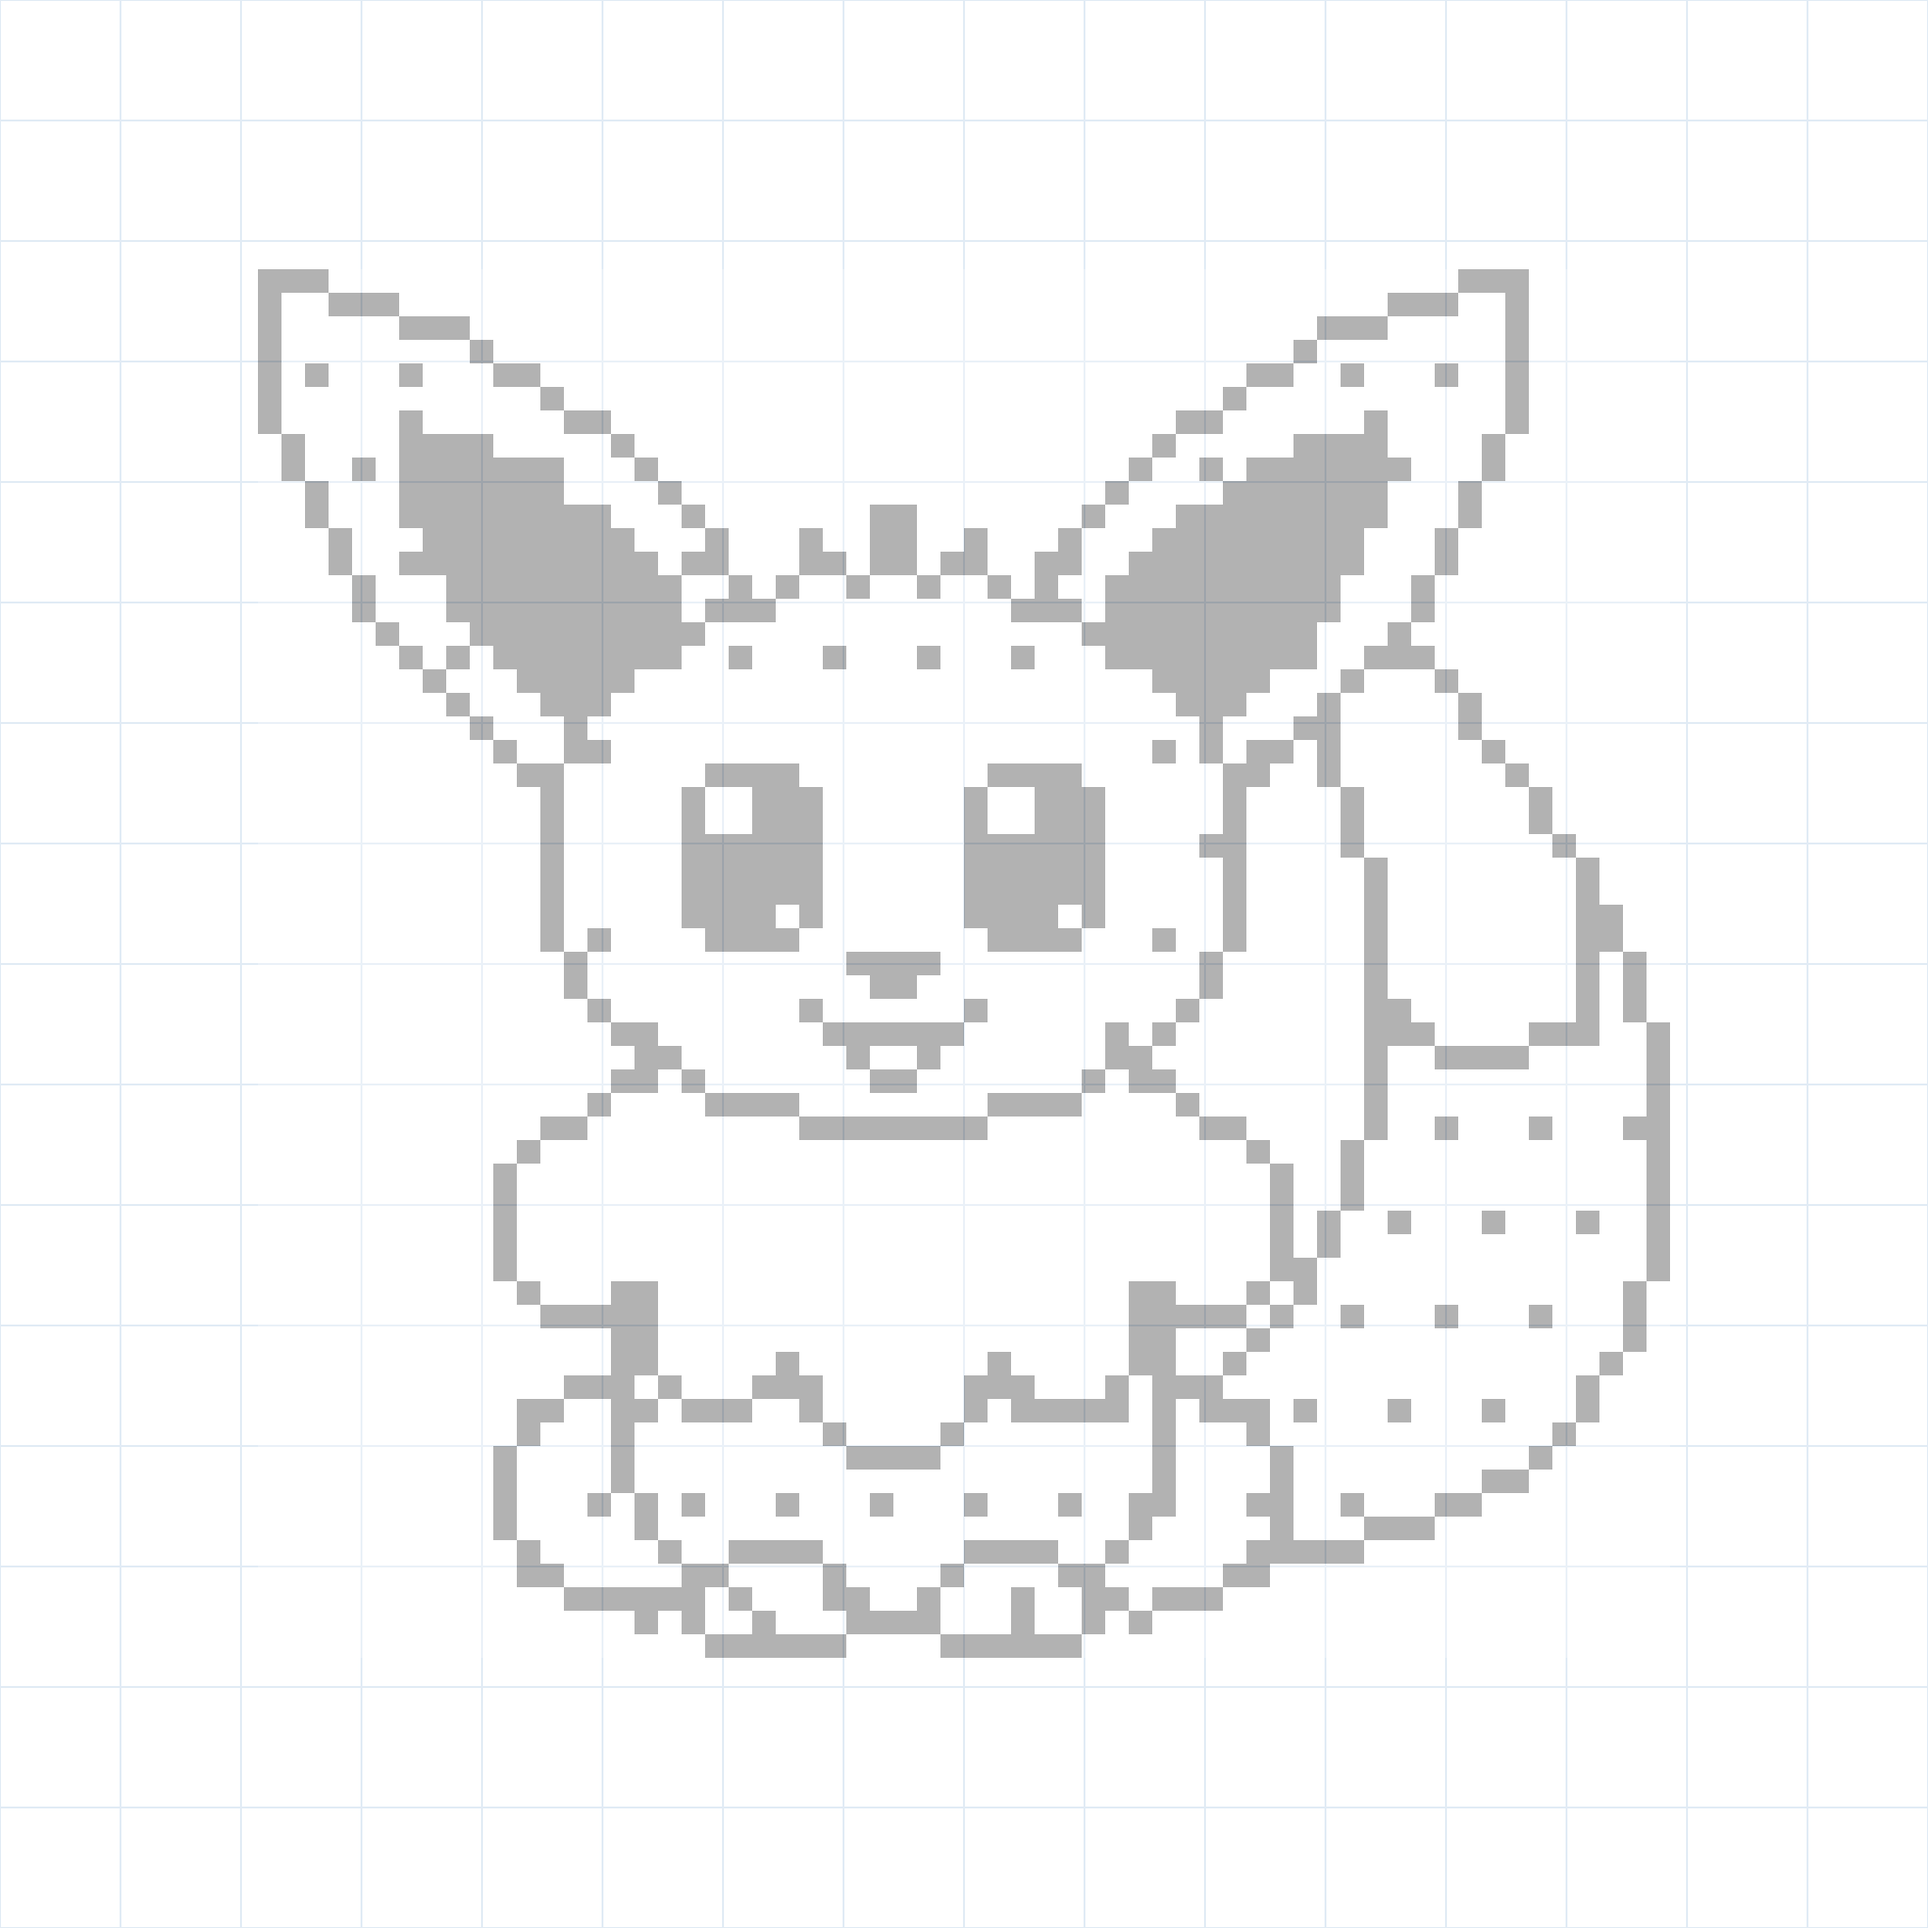
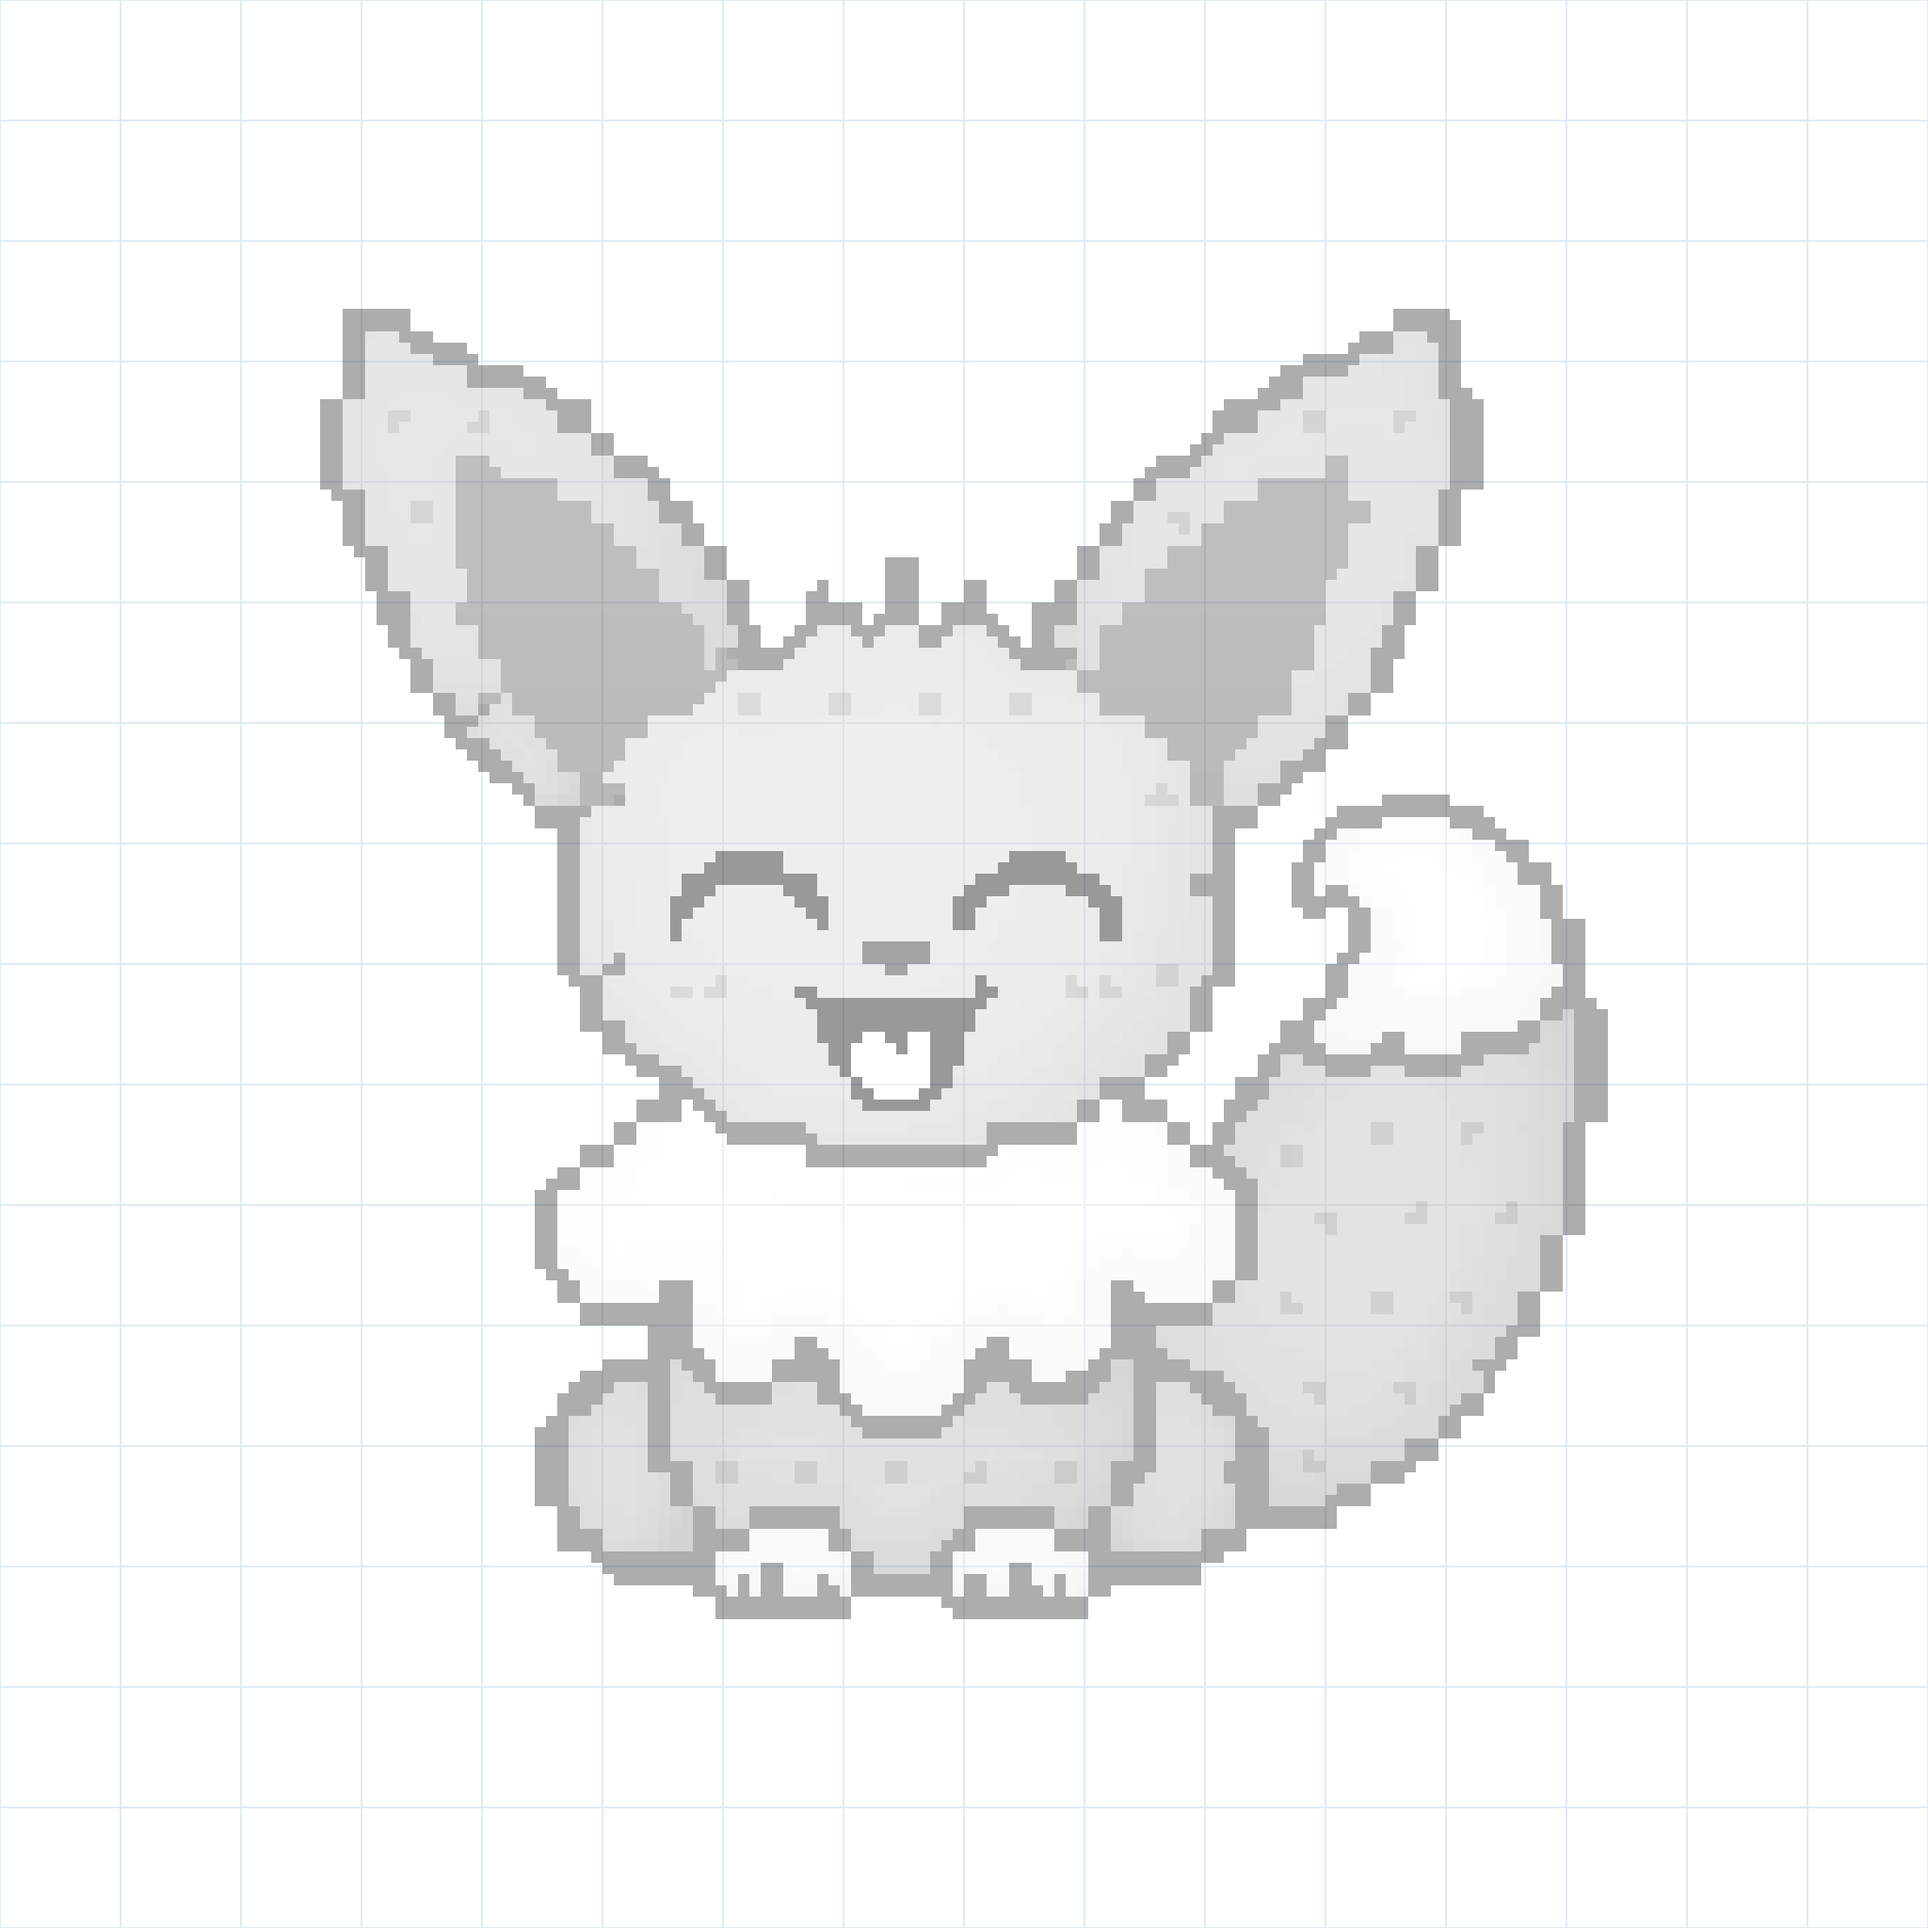
Vorlage nutzt jetzt die Graustufen-Evi

Changed region(s): [[0.125, 0.125, 0.875, 0.875]]

diff --git a/PROJEKTSTAND.md b/PROJEKTSTAND.md
@@ -10,7 +10,7 @@
 ## Eigene Bauteile zeichnen auf dem iPad (27. November 2026)
 
 - Wunsch der Nutzerin: Die KI-Zeichnungen der letzten Runden gefallen ihr nicht; sie möchte die Bauteile (Ohren, Gesichtsmerkmale, Schwänze, Fell-Muster) selbst mit iPad, Apple Pencil und Procreate zeichnen. Die 20 ursprünglichen Tamagotchis bleiben und werden nur mit Evi gekreuzt.
-- Fertig: [Anleitung](entwuerfe/evi/zeichnen/ANLEITUNG.md) und zwei Vorlagen (`Vorlage-Evi.png`, `Vorlage-Evi-mit-Raster.png`, 2048 × 2048, Evi blass als Unterlage; gebaut mit `vorlage-bauen.ps1` aus `evi-aktuell-referenz.png`). Abgabe als PSD in `entwuerfe/evi/zeichnen/abgabe/`.
+- Fertig: [Anleitung](entwuerfe/evi/zeichnen/ANLEITUNG.md) und zwei Vorlagen (`Vorlage-Evi.png`, `Vorlage-Evi-mit-Raster.png`, 2048 × 2048, Evi blass als Unterlage; gebaut mit `vorlage-bauen.ps1` aus der Graustufen-Evi `baukasten/werkzeug/evi-weiblich-original.png`). Abgabe als PSD in `entwuerfe/evi/zeichnen/abgabe/`.
 - Nächster Schritt: Die Nutzerin zeichnet zuerst zwei Ohren, einen Schwanz und ein Streifenmuster. Danach Ebenen auseinanderschneiden (Werkzeug für PSD fehlt noch, Python ist auf dem PC nicht installiert), spiegeln, Graustufen und Fellfarben setzen und kombinieren.
 
 ## Bauteil-Probelauf: Korrekturrunde (27. November 2026)
